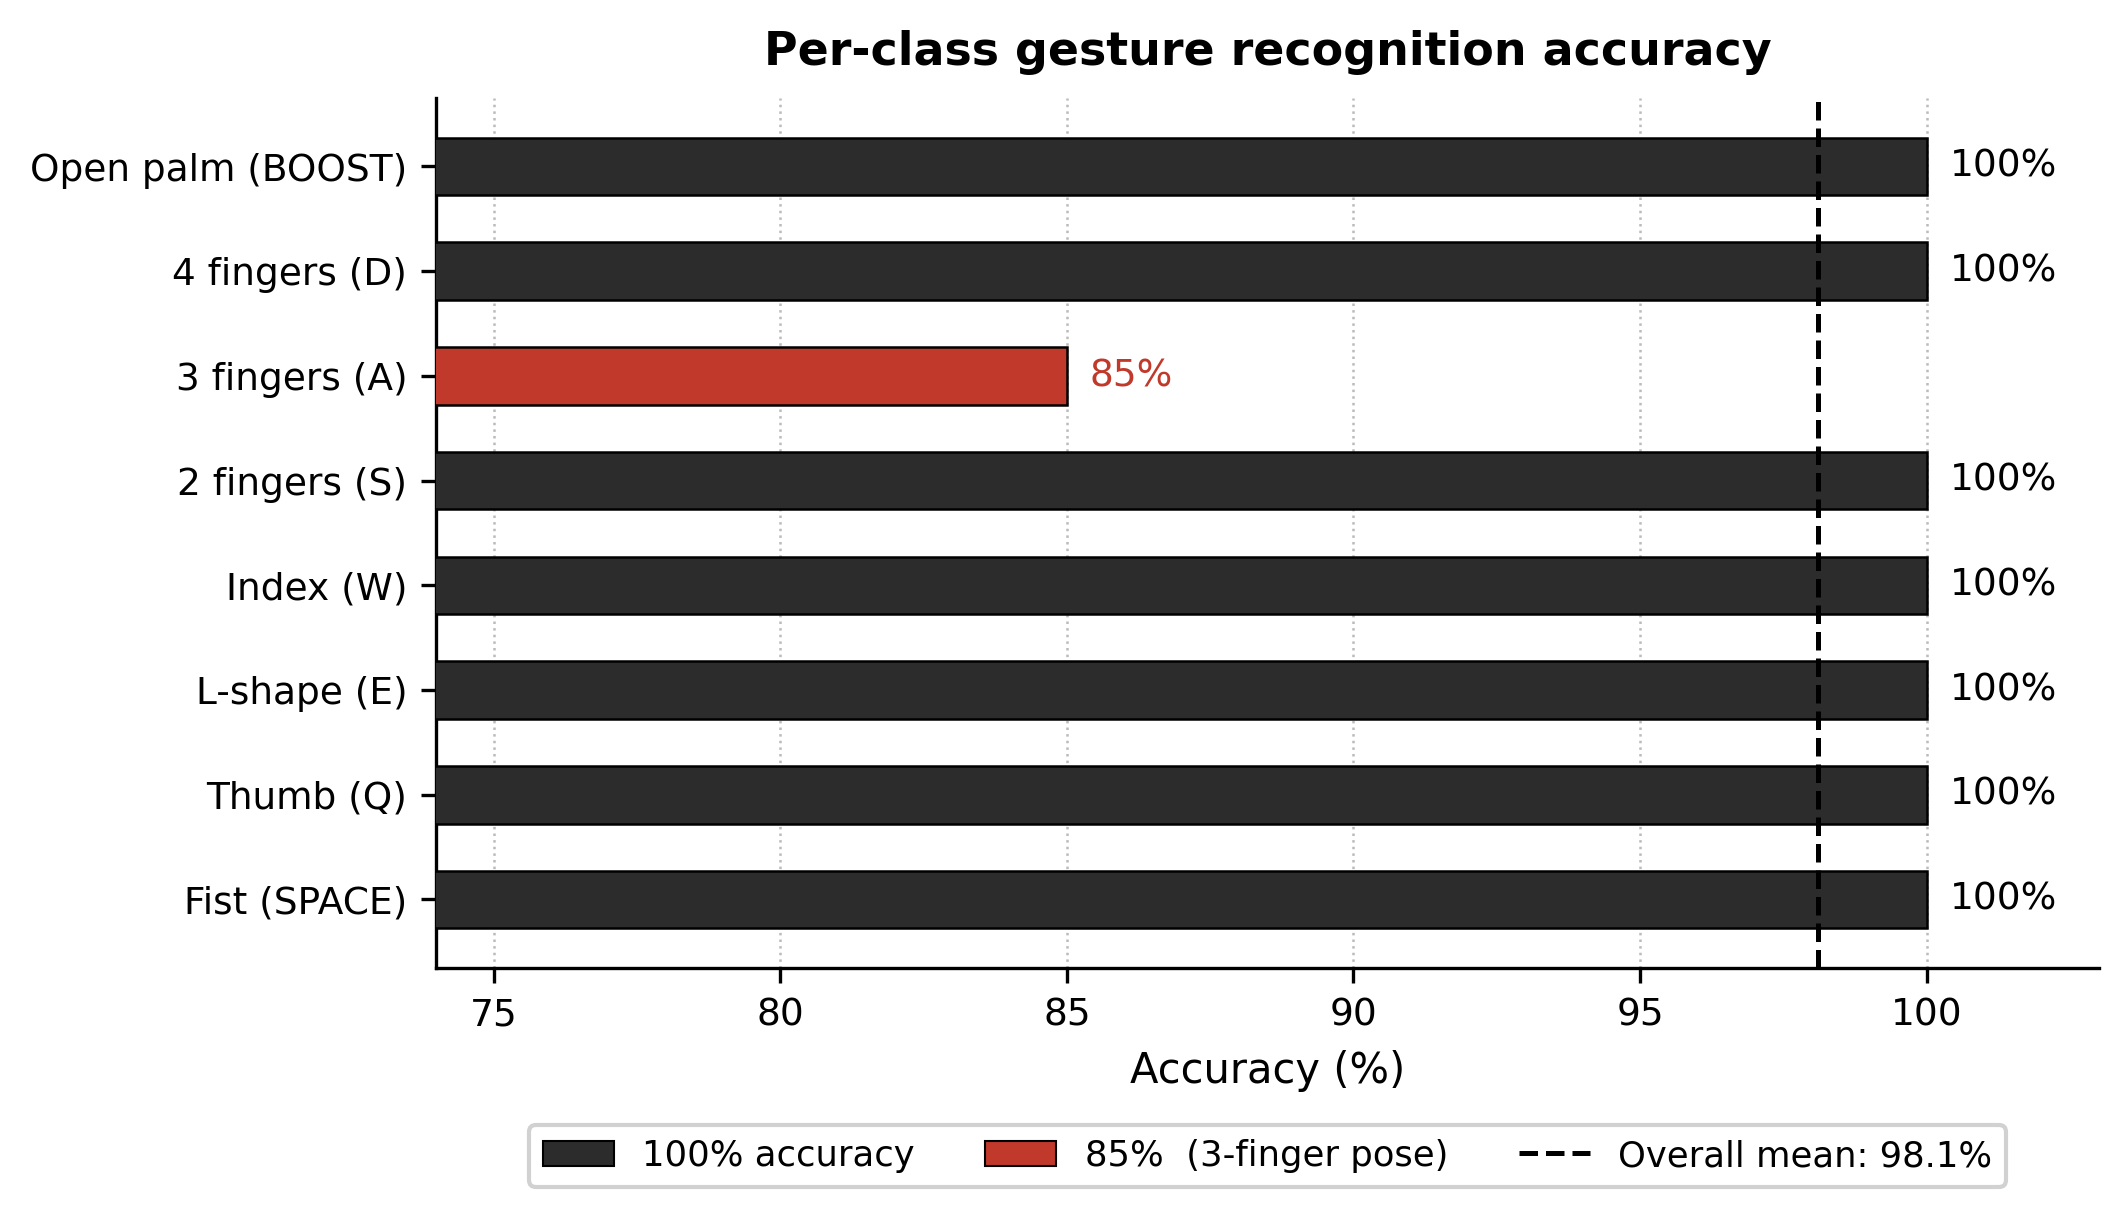
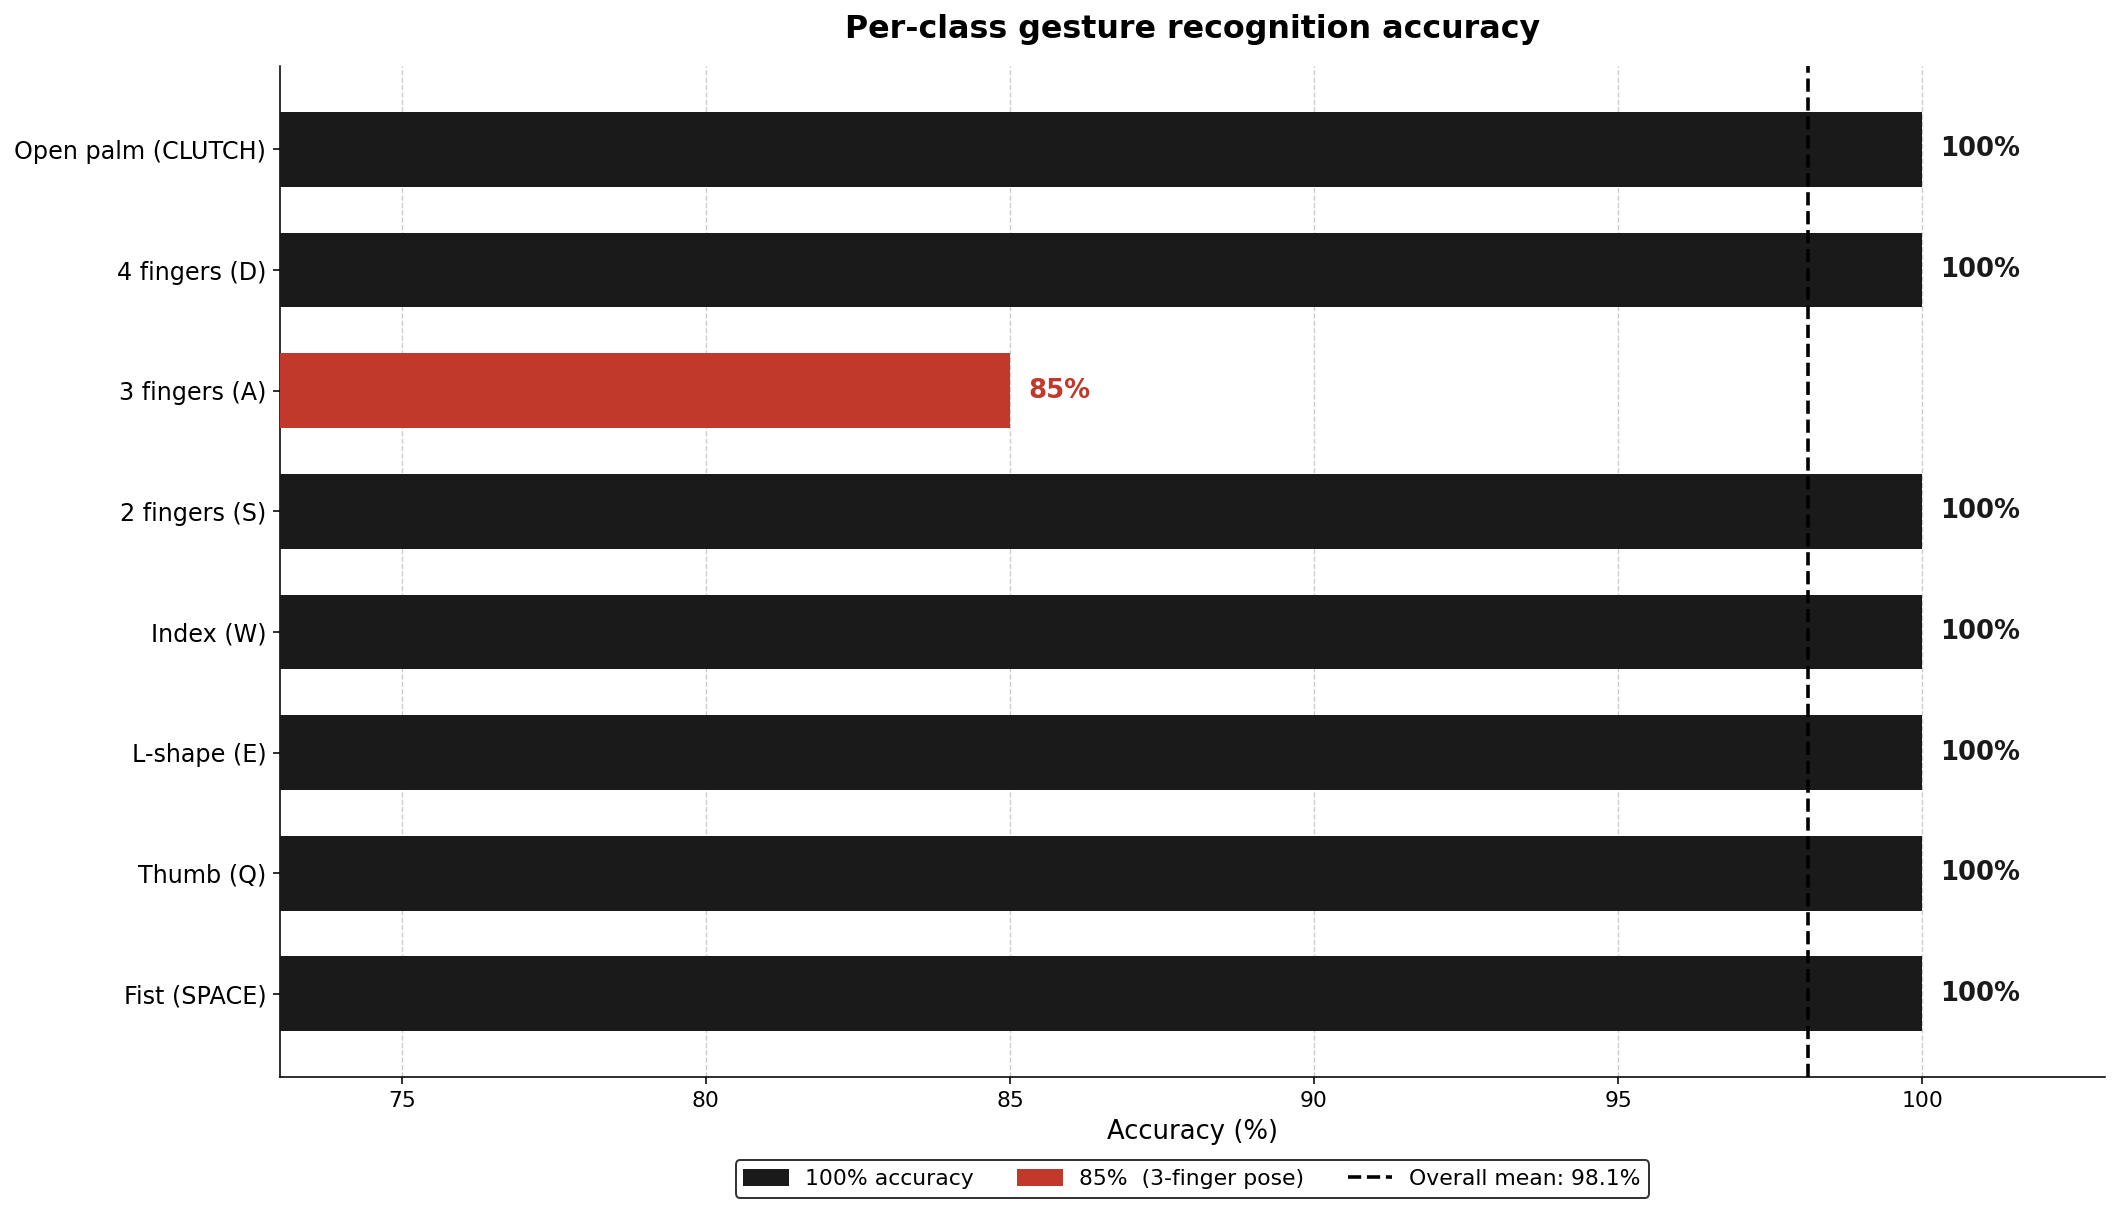
v2: Add Safety Clutch mechanism, 4-layer dependability
- Rename BOOST → CLUTCH throughout (gesture_engine, controller, README, docs)
- Add IDLE state to latch state machine (IDLE→TRACKING→LOCKED→LOST)
- Fix _LABEL and _TEST_GESTURES to use _CLUTCH_CMD constant (was "**CLUTCH**")
- Simplify _raw_matches now that _CLUTCH_CMD is used directly as tuple key
- Add module docstring to gesture_engine.py
- Remove development-step Chinese comments from core/*.py
- Regenerate gesture_diagram.png (cell 8: CLUTCH / Enable (Wake Up))
- Regenerate accuracy_chart.png (top bar: Open palm (CLUTCH))
- README: add 4-layer safety table, CLUTCH/IDLE state machine diagram

diff --git a/docs/gesture_diagram.html b/docs/gesture_diagram.html
@@ -81,7 +81,7 @@ const GESTURES = [
   { idx: 5, name: "2 Fingers", fingers: {thumb:false, index:true,  middle:true,  ring:false, pinky:false}, cmd: "S",     fn: "Backward" },
   { idx: 6, name: "3 Fingers", fingers: {thumb:false, index:true,  middle:true,  ring:true,  pinky:false}, cmd: "A",     fn: "Strafe Left" },
   { idx: 7, name: "4 Fingers", fingers: {thumb:false, index:true,  middle:true,  ring:true,  pinky:true},  cmd: "D",     fn: "Strafe Right" },
-  { idx: 8, name: "Open Palm", fingers: {thumb:true,  index:true,  middle:true,  ring:true,  pinky:true},  cmd: "BOOST", fn: "Max Speed" },
+  { idx: 8, name: "Open Palm", fingers: {thumb:true,  index:true,  middle:true,  ring:true,  pinky:true},  cmd: "CLUTCH", fn: "Enable (Wake Up)" },
 ];
 
 // ── Simple, consistent line-art hand generator ──────────────────────────────

diff --git a/core/gesture_engine.py b/core/gesture_engine.py
@@ -1,9 +1,17 @@
+"""
+gesture_engine.py — Finger-count gesture classifier and latch state machine.
+
+Classifies single-hand MediaPipe landmarks into one of eight commands, then
+manages the IDLE / TRACKING / LOCKED / LOST state machine that prevents
+unintentional motion (the 'Midas Touch' problem) by requiring an explicit
+CLUTCH (open-palm) wake gesture before any motion command is accepted.
+"""
 TRANS_SPEED = 0.65
 ROT_SPEED   = 0.30
 
 _CONFIRM_FRAMES = 3   # consecutive frames to lock a new gesture
 _LOST_THRESH    = 5   # absent frames before declaring LOST
-_BOOST_CMD      = "__BOOST__"
+_CLUTCH_CMD     = "__CLUTCH__"
 
 
 class GestureEngine:
@@ -11,27 +19,29 @@ class GestureEngine:
     Finger-count static-pose gesture recogniser.
 
     update(hand_landmarks | None) → (cmd, speed)
-    get_state()                   → "TRACKING" | "LOCKED" | "LOST"
+    get_state()                   → "IDLE" | "TRACKING" | "LOCKED" | "LOST"
 
     Finger → command mapping
     ──────────────────────────────────────────────
-    0  fingers  (fist)                      SPACE   stop / clear lock
+    0  fingers  (fist)                      SPACE   stop / lock to IDLE
     thumb only                              Q       CW  rotate
     thumb + index  (L-shape)                E       CCW rotate
     index only                              W       forward
     index + middle                          S       backward
     index + middle + ring                   A       strafe left
     index + middle + ring + pinky           D       strafe right
-    all 5 fingers                           BOOST   hold direction, speed → 100 %
+    all 5 fingers                           CLUTCH  wake up from IDLE
 
     States
     ──────
-    TRACKING  hand present, no command locked yet
+    IDLE      system asleep, ignores all gestures except CLUTCH (all 5 fingers)
+    TRACKING  hand present, system awake, no movement command locked yet
     LOCKED    a command is active (hand present or brief absence ≤ LOST_THRESH)
     LOST      hand absent > LOST_THRESH frames; locked cmd still sent
     """
 
     def __init__(self):
+        self.state         = 'IDLE'
         self._locked_cmd   = "SPACE"
         self._locked_speed = 0.0
         self._pending      = None
@@ -43,6 +53,7 @@ class GestureEngine:
     def get_debug_info(self) -> dict:
         """Return internal state for logging / HUD display."""
         return {
+            'state':       self.state,
             'pending':     self._pending,
             'streak':      self._streak,
             'lost_frames': self._lost_frames,
@@ -50,6 +61,7 @@ class GestureEngine:
 
     def reset(self):
         """Full reset — for program startup only."""
+        self.state         = 'IDLE'
         self._locked_cmd   = "SPACE"
         self._locked_speed = 0.0
         self._pending      = None
@@ -57,11 +69,13 @@ class GestureEngine:
         self._lost_frames  = 0
 
     def get_state(self) -> str:
+        if self.state == 'IDLE':
+            return "IDLE"
         if self._lost_frames >= _LOST_THRESH:
             return "LOST"
         if self._lost_frames > 0 or self._locked_cmd != "SPACE":
             return "LOCKED"
-        return "TRACKING"
+        return self.state
 
     def update(self, hand_landmarks) -> tuple:
         """
@@ -84,10 +98,6 @@ class GestureEngine:
             self._streak  = 0
             return self._locked_cmd, self._locked_speed
 
-        if raw_cmd == _BOOST_CMD:
-            raw_cmd   = self._locked_cmd
-            raw_speed = 1.0 if self._locked_cmd != "SPACE" else 0.0
-
         if raw_cmd == self._pending:
             self._streak += 1
         else:
@@ -95,9 +105,34 @@ class GestureEngine:
             self._streak  = 1
 
         if self._streak >= _CONFIRM_FRAMES:
-            self._locked_cmd   = raw_cmd
-            self._locked_speed = raw_speed
-            self._streak       = _CONFIRM_FRAMES
+            confirmed_gesture = raw_cmd
+            confirmed_speed = raw_speed
+            self._streak = _CONFIRM_FRAMES
+
+            if self.state == 'IDLE':
+                if confirmed_gesture == _CLUTCH_CMD:
+                    self.state = 'TRACKING'
+                    print("System Awakened!")
+                self._locked_cmd = "SPACE"
+                self._locked_speed = 0.0
+                return 'SPACE', 0.0
+
+            else:
+                if confirmed_gesture == 'SPACE':  # 看到握拳，強制煞車並重新上鎖休眠！
+                    self.state = 'IDLE'
+                    self._locked_cmd = "SPACE"
+                    self._locked_speed = 0.0
+                    print("System Locked (IDLE).")
+                    return 'SPACE', 0.0
+
+                elif confirmed_gesture == _CLUTCH_CMD:
+                    # 已經喚醒的狀態下再看到全開手掌，維持 TRACKING (或忽略)
+                    return 'SPACE', 0.0
+
+                self._locked_cmd   = confirmed_gesture
+                self._locked_speed = confirmed_speed
+                if self.state == 'TRACKING':
+                    self.state = 'LOCKED'
 
         return self._locked_cmd, self._locked_speed
 
@@ -122,7 +157,7 @@ def _classify(lm):
         return "SPACE", 0.0
 
     if all((t, i, m, r, p)):
-        return _BOOST_CMD, 1.0
+        return _CLUTCH_CMD, 0.0
 
     if (t, i, m, r, p) == (True,  False, False, False, False):
         return "Q", ROT_SPEED

diff --git a/core/telepresence_controller.py b/core/telepresence_controller.py
@@ -23,7 +23,7 @@ import socket
 import sys
 import os
 sys.path.insert(0, os.path.dirname(__file__))
-from gesture_engine import GestureEngine, _classify, _BOOST_CMD
+from gesture_engine import GestureEngine, _classify, _CLUTCH_CMD
 from experiment_logger import ExperimentLogger
 
 # ─────────────────────────────────────────
@@ -108,12 +108,15 @@ class CommandSender:
 #  Command display labels / state colors (HUD only)
 # ─────────────────────────────────────────
 _LABEL = {
-    "W":     "FORWARD ▲",     "S": "BACKWARD ▼",
-    "A":     "STRAFE LEFT ◀", "D": "STRAFE RIGHT ▶",
-    "Q":     "ROTATE CW ↻",   "E": "ROTATE CCW ↺",
-    "SPACE": "STOP",
+    "W":          "FORWARD ▲",     "S": "BACKWARD ▼",
+    "A":          "STRAFE LEFT ◀", "D": "STRAFE RIGHT ▶",
+    "Q":          "ROTATE CW ↻",   "E": "ROTATE CCW ↺",
+    "SPACE":      "STOP",
+    _CLUTCH_CMD:  "SYSTEM WAKE UP",
 }
+
 _STATE_COLOR = {
+    "IDLE":     (150, 150, 150),
     "TRACKING": (100, 220, 100),
     "LOCKED":   (50,  200, 255),
     "LOST":     (60,  60,  200),
@@ -138,14 +141,14 @@ _KEYMAP = """
 #  Gesture accuracy benchmark (8 poses x TRIALS each, triggered by 'T')
 # ─────────────────────────────────────────
 _TEST_GESTURES = [
-    ("SPACE", "STOP",         "Fist — all fingers closed"),
-    ("Q",     "ROTATE CW",    "Thumb only"),
-    ("E",     "ROTATE CCW",   "Thumb + Index  (L-shape)"),
-    ("W",     "FORWARD",      "Index finger only"),
-    ("S",     "BACKWARD",     "Index + Middle"),
-    ("A",     "STRAFE LEFT",  "3 fingers  (index, middle, ring)"),
-    ("D",     "STRAFE RIGHT", "4 fingers  (index, middle, ring, pinky)"),
-    ("BOOST", "BOOST",        "Open palm — all 5 fingers"),
+    ("SPACE",      "STOP",         "Fist — all fingers closed"),
+    ("Q",          "ROTATE CW",    "Thumb only"),
+    ("E",          "ROTATE CCW",   "Thumb + Index  (L-shape)"),
+    ("W",          "FORWARD",      "Index finger only"),
+    ("S",          "BACKWARD",     "Index + Middle"),
+    ("A",          "STRAFE LEFT",  "3 fingers  (index, middle, ring)"),
+    ("D",          "STRAFE RIGHT", "4 fingers  (index, middle, ring, pinky)"),
+    (_CLUTCH_CMD,  "WAKE UP",      "Open palm — all 5 fingers"),
 ]
 
 _LOG_DIR = os.path.join(os.path.dirname(__file__), '..', 'logs')
@@ -188,8 +191,7 @@ class GestureAccuracyTest:
         return _TEST_GESTURES[self.gesture_idx][0]
 
     def _raw_matches(self, raw_cmd):
-        target = self._target_cmd()
-        return raw_cmd == (_BOOST_CMD if target == "BOOST" else target)
+        return raw_cmd == self._target_cmd()
 
     def update(self, hand_lm, now):
         if not self.active:

diff --git a/README.md b/README.md
@@ -45,7 +45,34 @@ UDP command ──────────────────→ pi_udp_omn
 | Index + Middle | — | S | Backward |
 | Index + Middle + Ring | — | A | Strafe left |
 | Index + Middle + Ring + Pinky | — | D | Strafe right |
-| All five | Open palm | BOOST | Max speed (inherit direction) |
+| All five | Open palm | CLUTCH | Enable motion (Wake up system) |
+
+> **SPACE** from any non-IDLE state immediately stops the robot and returns to IDLE, requiring another CLUTCH to re-enable motion.
+
+---
+
+## Safety Architecture — 4-Layer Dependability Stack
+
+| Layer | Mechanism | What it prevents |
+|---|---|---|
+| 1 | **Safety Clutch (CLUTCH)** | System starts in IDLE — all motion commands silently ignored until operator shows open palm |
+| 2 | **Gesture Confirmation Gate** | Same gesture must appear in 3 consecutive frames before it is accepted (rejects transient misclassifications) |
+| 3 | **UDP Watchdog** | Robot halts within ≤ 600 ms (mean 533 ms) of any communication loss — Wi-Fi drop, host crash, cable pull |
+| 4 | **Motor Safe-Transition Guard** | Full stop + 80 ms pause before every direction change; prevents H-bridge damage from instantaneous reversal |
+
+### CLUTCH / IDLE State Machine
+
+```
+[IDLE] ──── Open palm (CLUTCH) ──────→ [TRACKING]
+  ↑                                          ↓  gesture confirmed (3 frames)
+  └──── Fist (SPACE) ◄──── [LOST] ←──→ [LOCKED]
+```
+
+- **IDLE** — system asleep; only CLUTCH recognised
+- **TRACKING** — system awake, no motion command locked yet
+- **LOCKED** — a motion command is active, retransmitted every 100 ms
+- **LOST** — hand absent but command still retransmitting (operator can lower hand freely)
+- Fist from any non-IDLE state → immediate stop + return to IDLE
 
 ---
 
@@ -62,8 +89,9 @@ RobotAI_Project/
 │   ├── pi_fast_stream.py             # Mirror of the Pi's MJPEG stream server (port 8000)
 │   └── pi_udp_omni.py                # Mirror of the Pi's UDP command receiver + motor control
 ├── docs/
-│   ├── ICKII_paper_draft.docx       # Full paper draft
 │   ├── architecture_v2.png          # System architecture diagram
+│   ├── gesture_diagram.png          # Figure 3 — 8-gesture vocabulary diagram
+│   ├── accuracy_chart.png           # Figure 5 — per-class accuracy chart
 │   └── SUBMISSION_CHECKLIST.md      # Conference submission checklist
 ├── logs/                            # Experiment logs (auto-generated)
 │   ├── accuracy_20260604.txt        # Gesture accuracy test results (98.1%)
